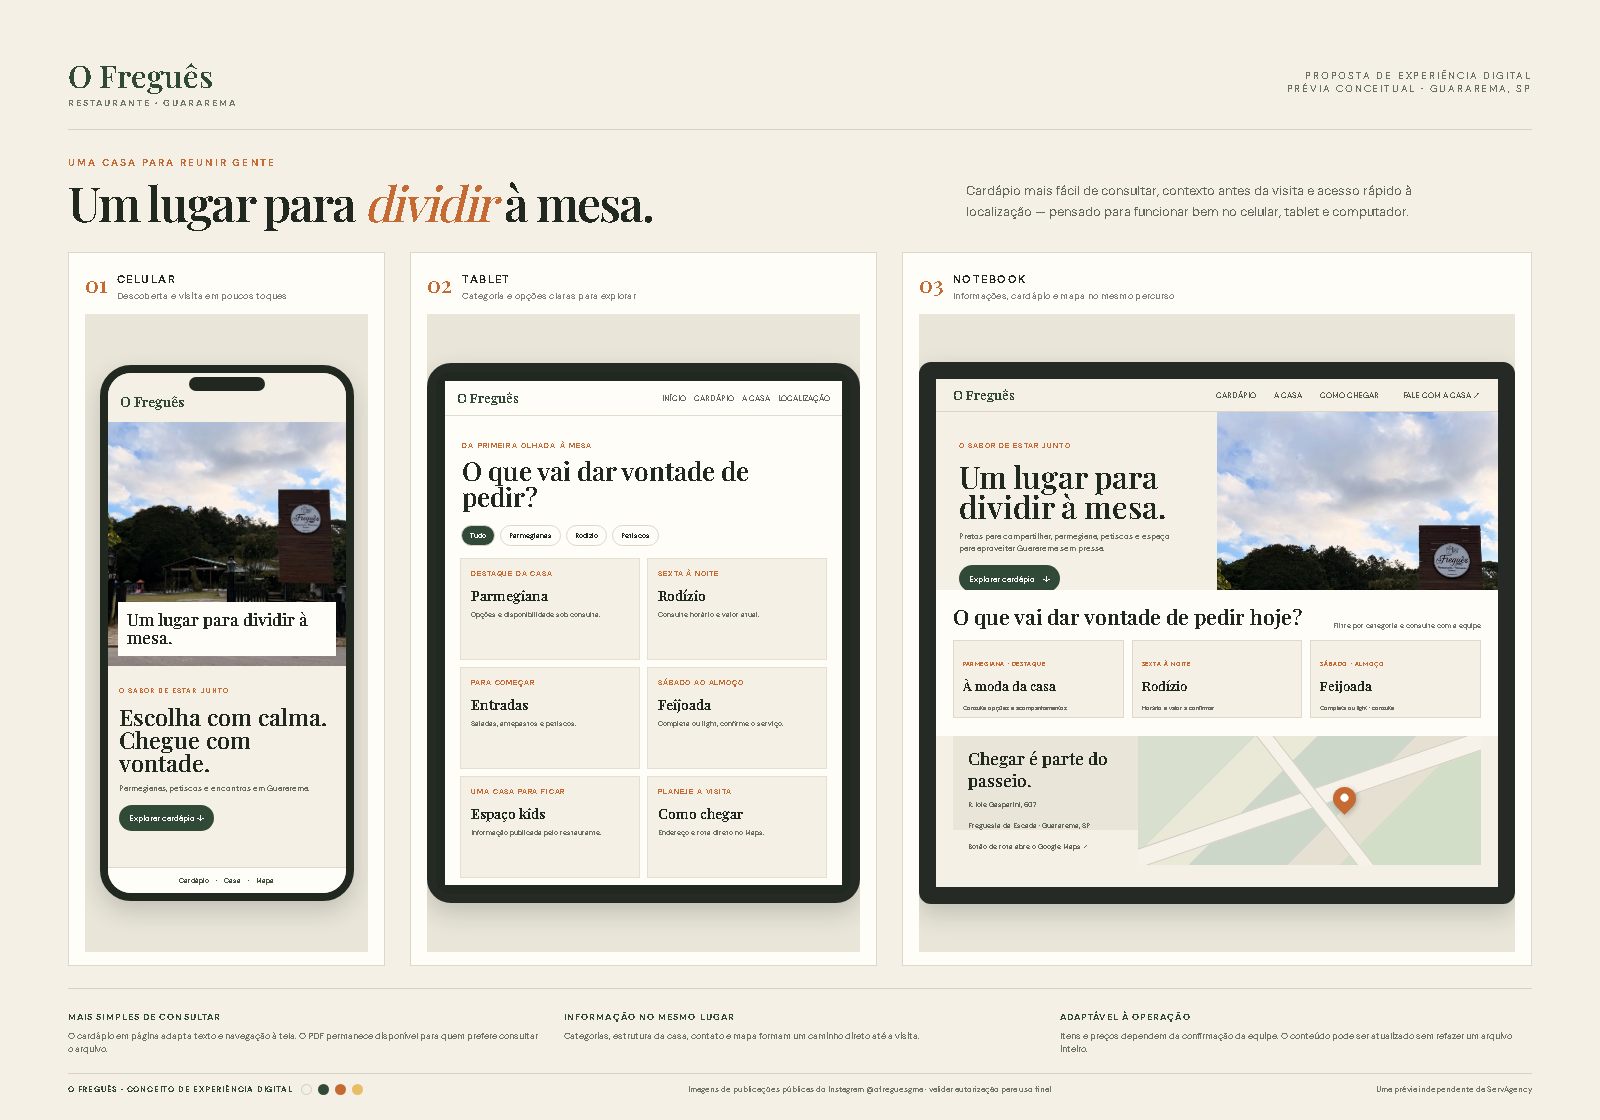
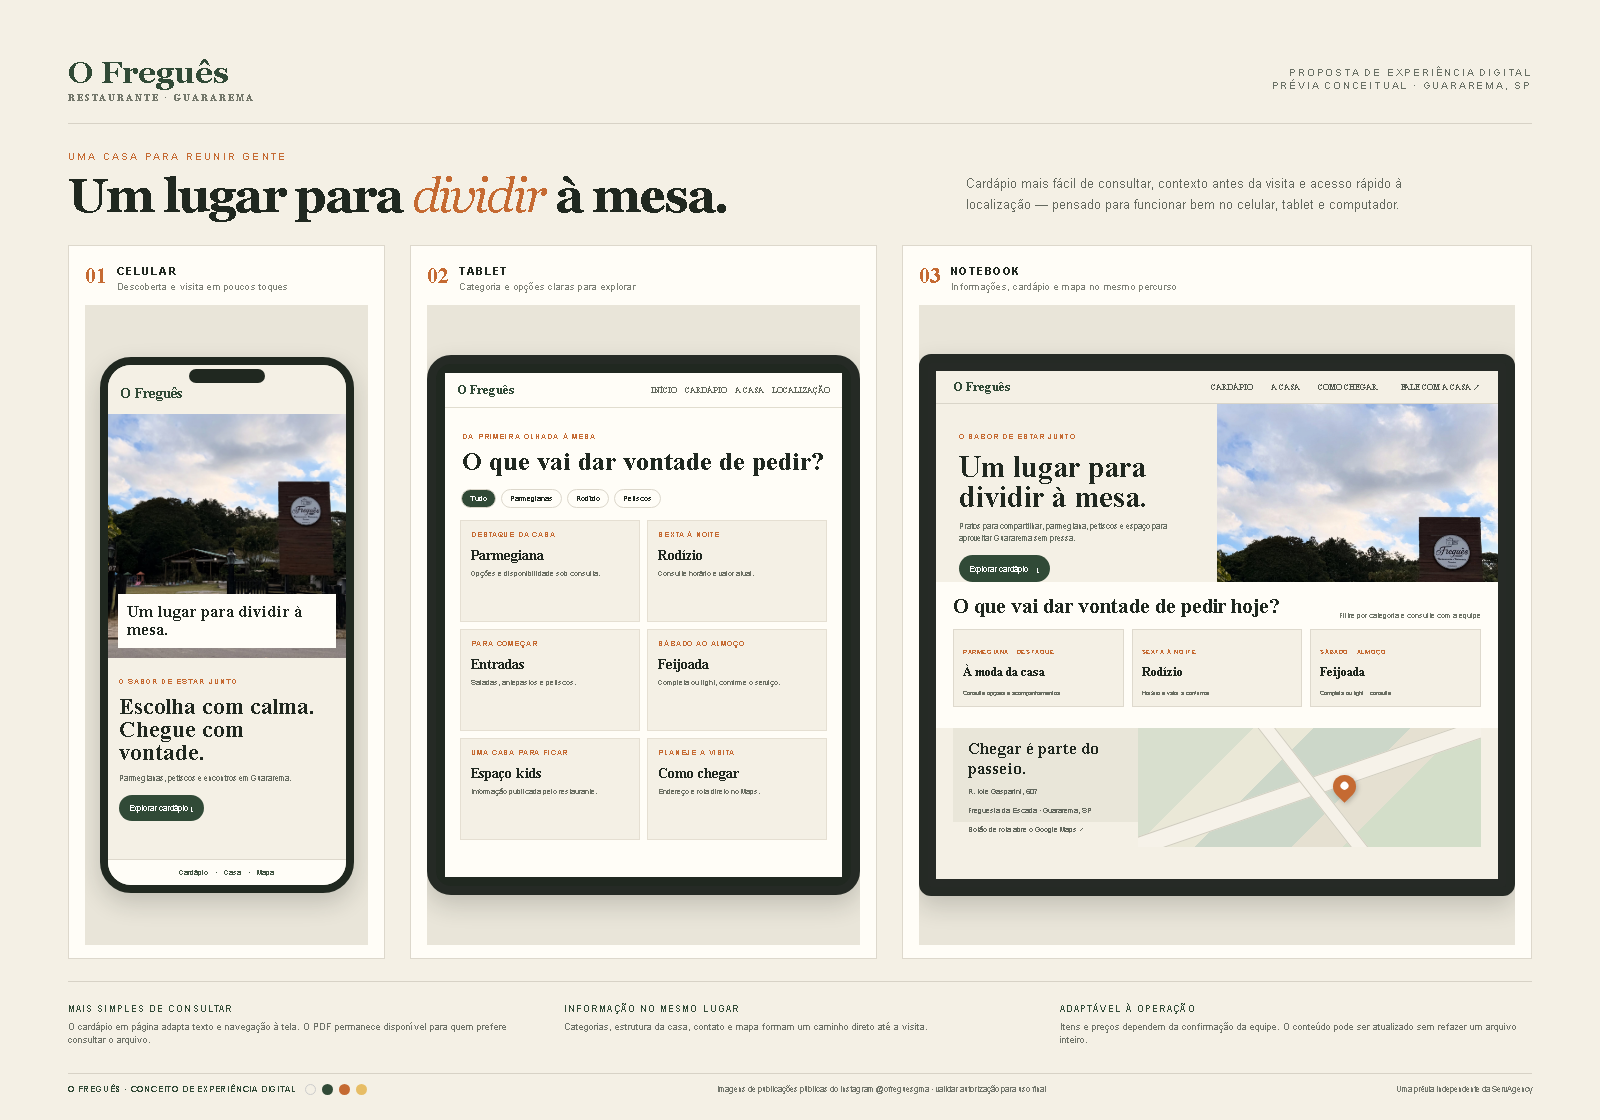
Refine mobile layout and presentation board

diff --git a/index.html b/index.html
@@ -7,12 +7,12 @@
   <link rel="preconnect" href="https://fonts.googleapis.com"><link rel="preconnect" href="https://fonts.gstatic.com" crossorigin><link href="https://fonts.googleapis.com/css2?family=DM+Sans:wght@400;500;600;700&family=Playfair+Display:wght@500;600;700&display=swap" rel="stylesheet">
   <style>
     :root{--paper:#f4f0e5;--cream:#fffdf7;--ink:#202820;--green:#314a37;--moss:#66744d;--orange:#c56a32;--gold:#e7bd65;--muted:#6d7165;--line:#d9d5c9;--serif:'Playfair Display',Georgia,serif;--sans:'DM Sans',Arial,sans-serif}*{box-sizing:border-box}html{scroll-behavior:smooth}body{margin:0;background:var(--paper);color:var(--ink);font-family:var(--sans);-webkit-font-smoothing:antialiased}a{color:inherit}button{font:inherit}.wrap{width:min(1180px,calc(100% - 44px));margin:auto}.topline{background:var(--green);color:#f8f4e8;text-align:center;padding:9px 16px;font-size:11px;letter-spacing:.12em;text-transform:uppercase}.nav{height:78px;border-bottom:1px solid var(--line);display:flex;align-items:center;justify-content:space-between}.brand{font-family:var(--serif);font-size:28px;letter-spacing:-.04em;color:var(--green);text-decoration:none}.brand small{display:block;font:600 9px var(--sans);letter-spacing:.24em;text-transform:uppercase;color:var(--muted);margin-top:-2px}.navlinks{display:flex;gap:30px;align-items:center;font-size:13px}.navlinks a{text-decoration:none;color:#4d5349}.navlinks a:hover{color:var(--orange)}.navlinks .pill{padding:12px 18px;background:var(--green);border-radius:99px;color:white}.hero{padding:52px 0 74px}.hero-grid{display:grid;grid-template-columns:.9fr 1.1fr;gap:44px;align-items:center}.eyebrow{color:var(--orange);font-size:11px;font-weight:700;letter-spacing:.2em;text-transform:uppercase}.hero h1{font:600 clamp(48px,6vw,79px)/.99 var(--serif);letter-spacing:-.055em;margin:18px 0 22px;max-width:550px}.hero h1 em{color:var(--orange);font-weight:500}.lead{font-size:16px;line-height:1.75;color:#5d6259;max-width:460px}.actions{display:flex;gap:12px;margin-top:28px;flex-wrap:wrap}.button{display:inline-flex;align-items:center;justify-content:center;gap:10px;padding:14px 19px;border-radius:99px;background:var(--green);color:white;text-decoration:none;font-size:13px;font-weight:600;border:1px solid var(--green);transition:transform .2s,background .2s}.button:hover{transform:translateY(-2px);background:#253b2b}.button.ghost{background:transparent;color:var(--green)}.hero-meta{display:flex;gap:20px;margin-top:29px;color:var(--muted);font-size:11px;letter-spacing:.04em}.hero-meta span:before{content:'•';color:var(--orange);margin-right:8px}.hero-photo{height:550px;position:relative}.hero-photo img{width:100%;height:100%;object-fit:cover;object-position:57% center;border-radius:2px 92px 2px 2px;display:block}.photo-note{position:absolute;bottom:18px;left:-18px;background:var(--cream);padding:13px 17px;box-shadow:0 10px 35px #1d291c22;font-size:11px;letter-spacing:.08em;text-transform:uppercase}.photo-note b{display:block;color:var(--green);font-family:var(--serif);font-size:16px;letter-spacing:0;text-transform:none;margin-top:4px}.section{padding:82px 0}.section-head{display:flex;justify-content:space-between;align-items:end;gap:28px;margin-bottom:30px}.section h2{font:600 clamp(34px,4.4vw,55px)/1.05 var(--serif);letter-spacing:-.04em;margin:12px 0 0}.section-head p{max-width:400px;color:var(--muted);font-size:14px;line-height:1.7;margin:0}.menu-section{background:var(--cream)}.category-row{display:flex;gap:9px;overflow:auto;padding:4px 0 16px;scrollbar-width:none}.category-row::-webkit-scrollbar{display:none}.category{border:1px solid var(--line);border-radius:99px;background:transparent;padding:11px 16px;color:#5f655a;white-space:nowrap;font-size:12px;cursor:pointer}.category[aria-pressed="true"]{background:var(--green);border-color:var(--green);color:#fff}.menu-grid{display:grid;grid-template-columns:repeat(3,1fr);gap:16px}.dish{background:var(--paper);border:1px solid #e4dfd2;padding:24px 23px 22px;min-height:195px;display:flex;flex-direction:column;justify-content:space-between}.dish[hidden]{display:none}.dish .tag{font-size:10px;letter-spacing:.16em;color:var(--orange);font-weight:700;text-transform:uppercase}.dish h3{font:600 23px var(--serif);margin:17px 0 8px}.dish p{font-size:13px;line-height:1.65;color:var(--muted);margin:0}.dish-foot{display:flex;justify-content:space-between;align-items:center;margin-top:20px;border-top:1px solid #d9d2c4;padding-top:13px;font-size:11px;color:var(--muted)}.dish-foot b{color:var(--green);font-weight:600}.menu-note{margin-top:17px;padding:13px 16px;background:#f0eadc;color:#626659;font-size:11px;line-height:1.6}.experience{display:grid;grid-template-columns:1.05fr .95fr;gap:54px;align-items:center}.experience-pic{height:550px;overflow:hidden;border-radius:90px 2px 2px 2px}.experience-pic img{width:100%;height:100%;object-fit:cover;object-position:center 57%}.experience-copy p{color:var(--muted);font-size:15px;line-height:1.8}.experience-copy .quote{font:500 30px/1.25 var(--serif);color:var(--green);margin:24px 0}.feature-list{list-style:none;padding:0;margin:25px 0}.feature-list li{padding:13px 0;border-bottom:1px solid var(--line);font-size:13px}.feature-list li span{color:var(--orange);font-weight:700;margin-right:12px}.occasion{background:var(--green);color:#f8f4e8;padding:72px 0}.occasion .eyebrow{color:var(--gold)}.occasion h2{max-width:650px}.occasion-grid{display:grid;grid-template-columns:1fr 1fr;gap:14px;margin-top:32px}.occasion-card{border:1px solid #ffffff36;display:grid;grid-template-columns:130px 1fr;min-height:180px}.occasion-card img{width:100%;height:100%;object-fit:cover}.occasion-card div{padding:20px}.occasion-card h3{font:500 23px var(--serif);margin:0 0 8px}.occasion-card p{font-size:12px;line-height:1.6;color:#d3d7cb;margin:0}.location{background:#e9e6d9}.location-grid{display:grid;grid-template-columns:.78fr 1.22fr;gap:38px;align-items:center}.address-card{padding:30px;background:var(--cream);border:1px solid var(--line)}.address-card h3{font:600 28px var(--serif);margin:0 0 12px}.address-card p{font-size:14px;line-height:1.7;color:var(--muted)}.address-line{display:flex;gap:13px;align-items:flex-start;margin:20px 0}.address-line span{color:var(--orange);font-size:18px}.map{width:100%;height:400px;border:0;display:block;filter:saturate(.82)}.footer{padding:35px 0 90px;border-top:1px solid var(--line)}.footrow{display:flex;justify-content:space-between;gap:24px;align-items:center}.footrow p{font-size:11px;color:var(--muted)}.disclaimer{max-width:720px;font-size:10px!important;line-height:1.6}.mobile-cta{display:none}
-    @media(max-width:760px){.wrap{width:min(100% - 32px,560px)}.topline{font-size:9px}.nav{height:65px}.brand{font-size:23px}.navlinks a:not(.pill){display:none}.navlinks{gap:0}.navlinks .pill{padding:11px 14px;font-size:11px}.hero{padding:32px 0 50px}.hero-grid{grid-template-columns:1fr;gap:27px}.hero h1{font-size:53px;max-width:450px}.lead{font-size:14px}.hero-photo{height:390px;margin-left:8px}.photo-note{left:-8px}.hero-meta{gap:12px;font-size:9px}.section{padding:58px 0}.section-head{display:block;margin-bottom:22px}.section-head p{margin-top:16px;font-size:13px}.section h2{font-size:39px}.menu-grid{grid-template-columns:1fr;gap:10px}.dish{min-height:160px;padding:20px}.dish h3{font-size:22px}.experience{grid-template-columns:1fr;gap:26px}.experience-pic{height:380px;border-radius:54px 2px 2px}.experience-copy .quote{font-size:26px}.occasion{padding:55px 0}.occasion-grid{grid-template-columns:1fr}.occasion-card{grid-template-columns:105px 1fr;min-height:145px}.occasion-card div{padding:16px}.location-grid{grid-template-columns:1fr;gap:22px}.map{height:340px}.footrow{display:block}.footer{padding-bottom:95px}.mobile-cta{display:flex;position:fixed;z-index:5;bottom:0;left:0;right:0;background:#fffdf7ee;backdrop-filter:blur(12px);border-top:1px solid var(--line);padding:10px 16px calc(10px + env(safe-area-inset-bottom));gap:10px}.mobile-cta .button{flex:1;padding:13px 12px;font-size:12px}}
-    @media(prefers-reduced-motion:reduce){html{scroll-behavior:auto}*,*:before,*:after{transition:none!important;animation:none!important}}
+    @media(max-width:760px){.wrap{width:min(calc(100% - 32px),560px)}.topline{font-size:9px}.nav{height:65px}.brand{font-size:23px}.navlinks a:not(.pill){display:none}.navlinks{gap:0}.navlinks .pill{padding:11px 14px;font-size:11px}.hero{padding:32px 0 50px}.hero-grid{grid-template-columns:1fr;gap:27px}.hero h1{font-size:53px;max-width:450px}.lead{font-size:14px}.hero-photo{height:390px;margin-left:8px}.photo-note{left:-8px}.hero-meta{gap:12px;font-size:9px}.section{padding:58px 0}.section-head{display:block;margin-bottom:22px}.section-head p{margin-top:16px;font-size:13px}.section h2{font-size:39px}.menu-grid{grid-template-columns:1fr;gap:10px}.dish{min-height:160px;padding:20px}.dish h3{font-size:22px}.experience{grid-template-columns:1fr;gap:26px}.experience-pic{height:380px;border-radius:54px 2px 2px}.experience-copy .quote{font-size:26px}.occasion{padding:55px 0}.occasion-grid{grid-template-columns:1fr}.occasion-card{grid-template-columns:105px 1fr;min-height:145px}.occasion-card div{padding:16px}.location-grid{grid-template-columns:1fr;gap:22px}.map{height:340px}.footrow{display:block}.footer{padding-bottom:95px}.mobile-cta{display:flex;position:fixed;z-index:5;bottom:0;left:0;right:0;background:#fffdf7ee;backdrop-filter:blur(12px);border-top:1px solid var(--line);padding:10px 16px calc(10px + env(safe-area-inset-bottom));gap:10px}.mobile-cta .button{flex:1;padding:13px 12px;font-size:12px}}
+    @media(max-width:760px){body{width:100%;max-width:100%;overflow-x:hidden}.wrap{width:calc(100% - 32px);max-width:560px}.topline{line-height:1.5;padding-inline:20px;letter-spacing:.06em;white-space:normal;overflow-wrap:anywhere}.navlinks .pill{display:none}.hero-grid>*{min-width:0;max-width:100%}.lead{width:auto;max-width:calc(100vw - 48px);font-size:13px;overflow-wrap:anywhere}.hero-photo{width:auto;margin-left:0}.mobile-cta{display:grid;grid-template-columns:1fr 1fr;left:0;right:0;width:100%;box-sizing:border-box;padding-inline:16px;gap:8px}.mobile-cta .button{display:flex;width:100%;max-width:none;min-width:0;box-sizing:border-box;padding-inline:8px;font-size:11px;white-space:nowrap}}@media(prefers-reduced-motion:reduce){html{scroll-behavior:auto}*,*:before,*:after{transition:none!important;animation:none!important}}
   </style>
 </head>
 <body>
-  <div class="topline">Guararema, SP &nbsp;·&nbsp; restaurante, petiscaria e bons encontros</div>
+  <div class="topline">Guararema, SP &nbsp;·&nbsp; restaurante e petiscaria</div>
   <header class="wrap nav"><a class="brand" href="#inicio">O Freguês<small>Restaurante · Guararema</small></a><nav class="navlinks" aria-label="Navegação principal"><a href="#cardapio">Cardápio</a><a href="#casa">A casa</a><a href="#localizacao">Como chegar</a><a class="pill" href="https://wa.me/5511997013223" target="_blank" rel="noreferrer">Falar com a casa ↗</a></nav></header>
   <main>
     <section class="wrap hero" id="inicio"><div class="hero-grid"><div><div class="eyebrow">O sabor de estar junto</div><h1>Um lugar para <em>dividir</em> à mesa.</h1><p class="lead">Pratos para compartilhar, parmegiana, petiscos e espaço para aproveitar Guararema sem pressa. Descubra a casa, consulte o cardápio e planeje sua visita.</p><div class="actions"><a class="button" href="#cardapio">Explorar o cardápio <span>↓</span></a><a class="button ghost" href="#localizacao">Encontrar a casa ↗</a></div><div class="hero-meta"><span>Espaço kids</span><span>Pet friendly</span><span>Estacionamento</span></div></div><div class="hero-photo"><img src="assets/entrada-restaurante.jpg" alt="Entrada do Restaurante O Freguês em Guararema"><div class="photo-note">Um convite para chegar<b>R. Iole Gasparini, 607</b></div></div></div></section>
